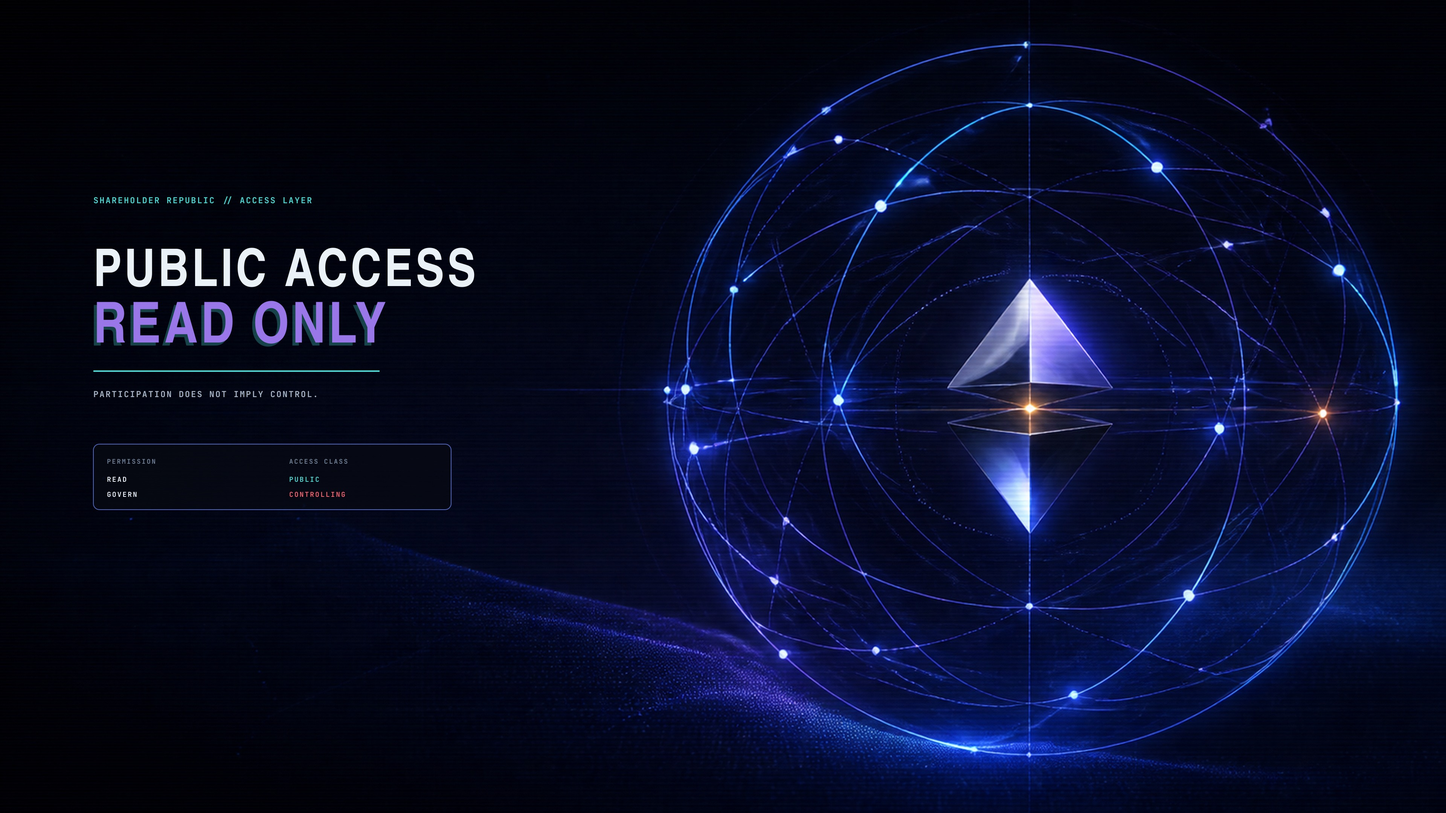
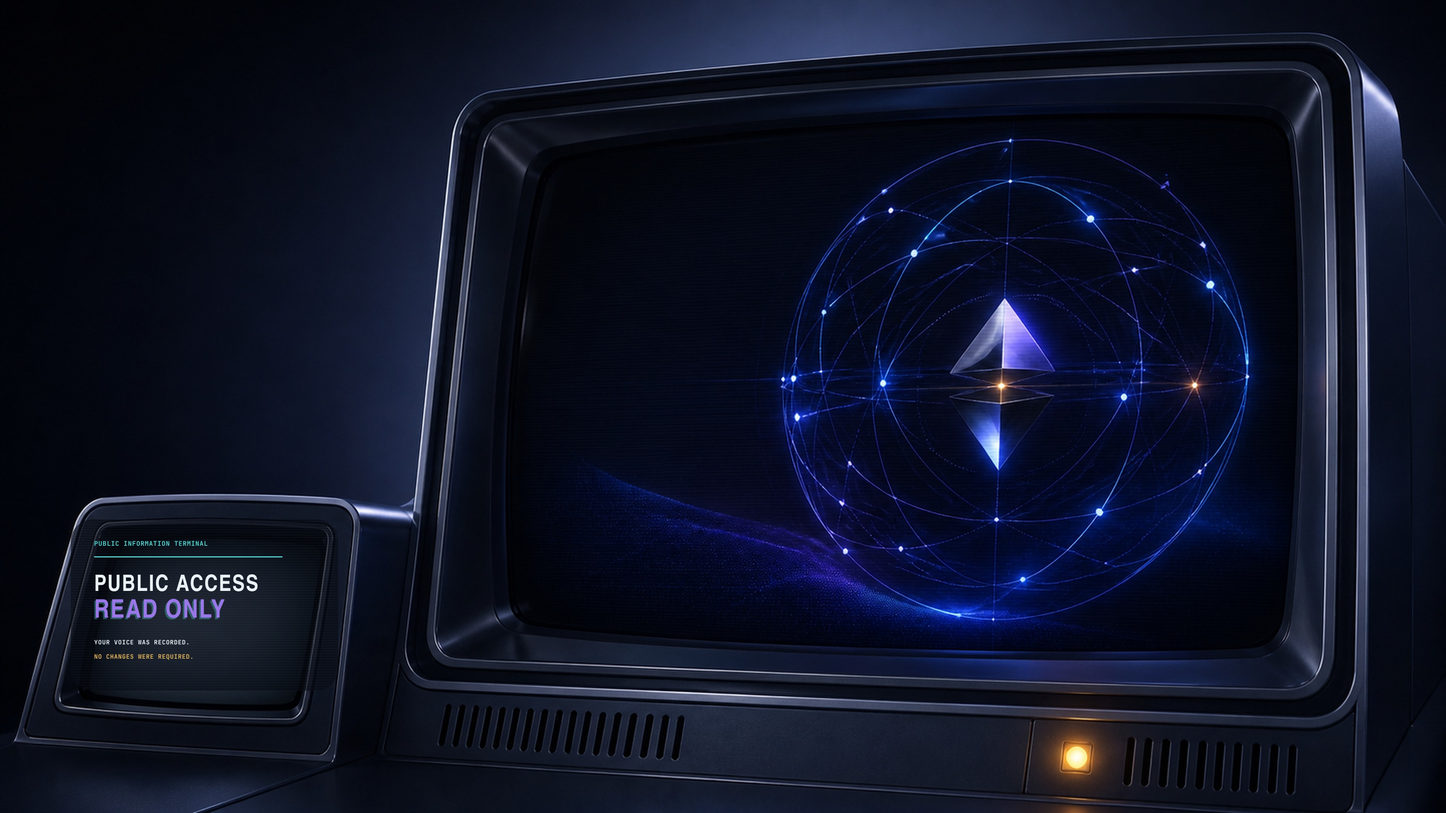
feat: integrate propaganda into the world

diff --git a/extras/source/generation-prompts.md b/extras/source/generation-prompts.md
@@ -57,14 +57,6 @@ subtle private access bridge above public concourse; premium 1970s transit
 advertising mood, cyan and blue evening light with sparse warm amber; open
 display and calm left region.
 
-## 07 — Annual General Election
-
-Premium abstract shareholder-resolution display installed in a bright civic
-atrium; three elegant blank decision panels, proportional ownership bars as
-pure geometry, no recognizable ballot or government seal; polished corporate
-futurism, cool navy, chrome, cyan, violet and restrained amber; sophisticated,
-calm, useful negative space.
-
 ## 08 — Public Float: 0.00%
 
 Minimal planetary city-network composition in deep indigo; elegant central
@@ -107,3 +99,38 @@ indicator lamps, and paper-feed slots; route public conduits into the sealed
 board chamber and one amber authorization point. Use cold public
 infrastructure, warm private control, analog grain, registration drift, and
 gentle phosphor bloom.
+
+## 1.2 scene-edit prompts
+
+The built-in OpenAI image-generation tool edited three more text-free masters.
+The supplied screenshot of `06 — Preferred Future` was used as the material
+reference: propaganda belongs on a convincing object in the scene, never as a
+floating poster layer. Exact wording was still added later through the SVG
+overlays so every letter remains intentional and reproducible.
+
+### 01 — Privately Held
+
+Preserve the blue-hour civic arcology, tower, transit, gardens, and broad
+negative sky. Add one large, blank, front-facing municipal advertising display
+on a sculptural chrome pedestal in the lower-left plaza. Match the scene's
+lighting, reflections, scale, and 1970s corporate-futurist construction. The
+display must feel permanent and architectural, with no generated writing,
+symbols, logos, or interface marks.
+
+### 03 — Public Access: Read Only
+
+Transform the abstract network composition into a wall-sized curved CRT
+mainframe monitor in a dark late-1970s control room. Keep the luminous public
+network sphere on the large screen and add a smaller blank CRT terminal on the
+left for the deterministic message. Use heavy molded bezels, vents, phosphor
+bloom, subtle scan lines, and analog industrial materials; include no generated
+text, numbers, logos, or watermarks.
+
+### 08 — Public Float: 0.00%
+
+Transform the planetary network into a dark 1970s ownership-registry
+observatory. Preserve the violet-blue orbital model as a physical illuminated
+table on the right and add a blank angled instrument plaque in the lower-left
+foreground. Use smoked glass, machined chrome, physical switches, restrained
+amber lamps, analog grain, and cinematic low light; include no generated text,
+numbers, logos, or watermarks.

diff --git a/README.md b/README.md
@@ -8,13 +8,13 @@ cyan, signal blue, preferred violet, and restrained magenta with a fictional
 Shareholder Republic where the public gets the platform and ownership retains
 the permissions.
 
-Its eight wallpapers alternate between immaculate campaign promises and the
-quiet machinery behind them: four slogan-led public communications, four
-diegetic institutional scenes. The joke is dry, but the desktop remains usable.
+Its seven wallpapers turn immaculate campaign promises into objects inside the
+world: billboards, kiosks, CRTs, glass directories, and ownership terminals.
+The joke is dry, the institutions are smiling, and the desktop remains usable.
 
 ![Oligarchy 2084 desktop preview](preview.png)
 
-![The eight Oligarchy 2084 backgrounds](backgrounds.jpg)
+![The seven Oligarchy 2084 backgrounds](backgrounds.jpg)
 
 ## Install
 
@@ -26,7 +26,7 @@ The repository name resolves to the installed theme slug `oligarchy-2084`.
 
 ## Included
 
-- Eight coordinated 4K backgrounds: four campaign-led, four diegetic
+- Seven coordinated 4K backgrounds with fully diegetic propaganda displays
 - Semantic colors for supported Omarchy surfaces and applications
 - Matching btop, Chromium, icon, and keyboard-color files
 - Transparent ownership/access unlock emblem
@@ -67,7 +67,6 @@ files provide deliberate application-specific finishing.
 | `04-enterprise-citizenship.jpg` | Civic access tiers presented as enterprise enrollment |
 | `05-open-source-closed-board.jpg` | Public code with ownership-gated merge control |
 | `06-preferred-future.jpg` | A transit future already approved on the public's behalf |
-| `07-annual-general-election.jpg` | A shareholder resolution dressed as civic participation |
 | `08-public-float-zero.jpg` | A visible public system with no public control |
 
 Ultrawide alternatives, screensaver sources, text-free masters, editable SVG

diff --git a/extras/source/validation-report.md b/extras/source/validation-report.md
@@ -8,7 +8,7 @@ commit `0ae1694830b6bd9511042fe1b89a0062d8c083cb`.
 - PASS — Installed from the public GitHub URL with `omarchy theme install`.
 - PASS — Repository name resolved to the expected slug `oligarchy-2084`.
 - PASS — Theme activated as `Oligarchy 2084`.
-- PASS — Eight backgrounds staged and cycled in filename order; the live
+- PASS — Seven backgrounds staged and cycled in filename order; the live
   desktop was left on `Preferred Future` for the unobstructed preview layout.
 - PASS — Hand-written `colors.toml`, `btop.theme`, `chromium.theme`,
   `icons.theme`, and `keyboard.rgb` survived remote-theme staging.
@@ -21,7 +21,7 @@ commit `0ae1694830b6bd9511042fe1b89a0062d8c083cb`.
 - PASS — Omarchy shell/bar rendered the active palette.
 - PASS — Root menu rendered readable normal, selected, and bordered states.
 - PASS — Notification card rendered readable text and gradient border.
-- PASS — Background image picker rendered all eight images and a clear selected
+- PASS — Background image picker rendered all seven images and a clear selected
   border.
 - PASS — Foot rendered normal/bright ANSI colors, selection, and cursor states.
 - PASS — btop rendered CPU, memory, graph, meter, and box colors from the
@@ -61,8 +61,8 @@ which remained visually distinct in the live Foot sample.
 
 ## Asset and safety checks
 
-- PASS — Eight final backgrounds are 3840×2160 sRGB.
-- PASS — Eight textless masters are 3840×2160 sRGB.
+- PASS — Seven final backgrounds are 3840×2160 sRGB.
+- PASS — Seven textless masters are 3840×2160 sRGB.
 - PASS — Four ultrawide variants are 3440×1440 sRGB.
 - PASS — Screensaver sources are 1600×900.
 - PASS — Social card is 1200×675.

diff --git a/extras/source/composition-notes.md b/extras/source/composition-notes.md
@@ -6,12 +6,12 @@ Nimbus Sans Narrow provides the condensed institutional display face and
 JetBrains Mono provides system labels. Each background keeps essential text
 outside the outer 5% margin and reserves a low-detail area for tiled windows.
 
-The eight-image rotation is intentionally split. `01`, `03`, `06`, and `07`
-are public-facing campaign communications. `02`, `04`, `05`, and `08` keep
-their copy inside kiosks, wayfinding, infrastructure, or ledger graphics. Fine
-scan lines, phosphor bloom, print grain, and slight registration drift carry
-the late-1970s/early-1980s retro-science-fiction language without sacrificing
-desktop legibility.
+The seven-image rotation uses one rule throughout: every message belongs to a
+physical object inside the fiction. Copy appears on a civic billboard, service
+kiosk, CRT terminal, glass directory, board-control panel, transit display, or
+ownership-registry instrument. Fine scan lines, phosphor bloom, print grain,
+and slight registration drift carry the late-1970s/early-1980s
+retro-science-fiction language without sacrificing desktop legibility.
 
 The final raster exports are sRGB JPEGs at 3840×2160. Textless masters use the
 same dimensions. Dedicated ultrawide variants are 3440×1440 and are cropped or

diff --git a/extras/source/asset-audit.md b/extras/source/asset-audit.md
@@ -8,7 +8,7 @@ were excluded rather than traced, recolored, or reused.
 
 ## Included work
 
-- Eight new text-free scene bases produced specifically for Oligarchy 2084
+- Seven text-free scene bases produced specifically for Oligarchy 2084
 - Deterministic, editable SVG typography and interface overlays using exact
   approved copy
 - Original split-governance-diamond emblem in editable SVG
@@ -20,5 +20,5 @@ The release uses no stock photos, real-person portraits, real company logos,
 font binaries, or copied art from another Omarchy theme. DHH's Diablo Dreams
 theme and first-party Omarchy themes were inspected only for repository and
 file-structure conventions. The reference theme contains nine backgrounds;
-Oligarchy 2084 retains eight because each has a distinct narrative role rather
+Oligarchy 2084 retains seven because each has a distinct narrative role rather
 than to satisfy a fixed count.

diff --git a/extras/source/release-checklist.md b/extras/source/release-checklist.md
@@ -6,10 +6,10 @@
 - [x] Theme slug resolves to `oligarchy-2084`.
 - [x] `colors.toml` parses and renders correctly.
 - [x] Applicable installed applications and shell surfaces were checked.
-- [x] Eight final 4K backgrounds are present.
+- [x] Seven final 4K backgrounds are present.
 - [x] Four 3440×1440 ultrawide variants are present.
 - [x] Text-bearing images use deterministic, exact typography.
-- [x] Four campaign-led and four diegetic backgrounds avoid repetitive copy.
+- [x] Every slogan is integrated into a physical surface inside its scene.
 - [x] Contest announcement reviewed on 2026-08-26: best attempt must be funny
   and good-looking enough to ship; deadline Friday, 2026-08-28; recipient
   `david@omarchy.org`.

diff --git a/CHANGELOG.md b/CHANGELOG.md
@@ -1,5 +1,16 @@
 # Changelog
 
+## 1.2.0 — 2026-08-26
+
+- Rebuilt the wallpaper copy as physical billboards, kiosks, CRTs, glass
+  directories, and instrument panels inside every scene.
+- Sharpened the Shareholder Republic satire around ownership, access, equity,
+  board control, pre-approved futures, and voting rights.
+- Replaced three scene masters to support stronger environmental storytelling.
+- Removed the Annual General Election background and tightened the rotation to
+  seven distinct concepts.
+- Rebuilt the contact sheet, social card, and ultrawide derivatives.
+
 ## 1.1.0 — 2026-08-26
 
 - Rebalanced the set into four slogan-led and four diegetic wallpapers.

diff --git a/extras/source/overlays/README.md b/extras/source/overlays/README.md
@@ -5,6 +5,7 @@ composited over the text-free scene masters. They are designed at 3840×2160
 and use Nimbus Sans Narrow for institutional display copy plus JetBrains Mono
 for system labels.
 
-Four wallpapers are campaign-led (`01`, `03`, `06`, `07`). The other four
-keep their copy diegetic and restrained (`02`, `04`, `05`, `08`) so the set
-does not read as eight repetitions of the same poster.
+All seven wallpapers keep their copy diegetic: the typography is confined to a
+billboard, kiosk, CRT, mounted directory, control panel, transit display, or
+registry instrument. The propaganda voice remains consistent without reading
+as seven copies of the same poster.
